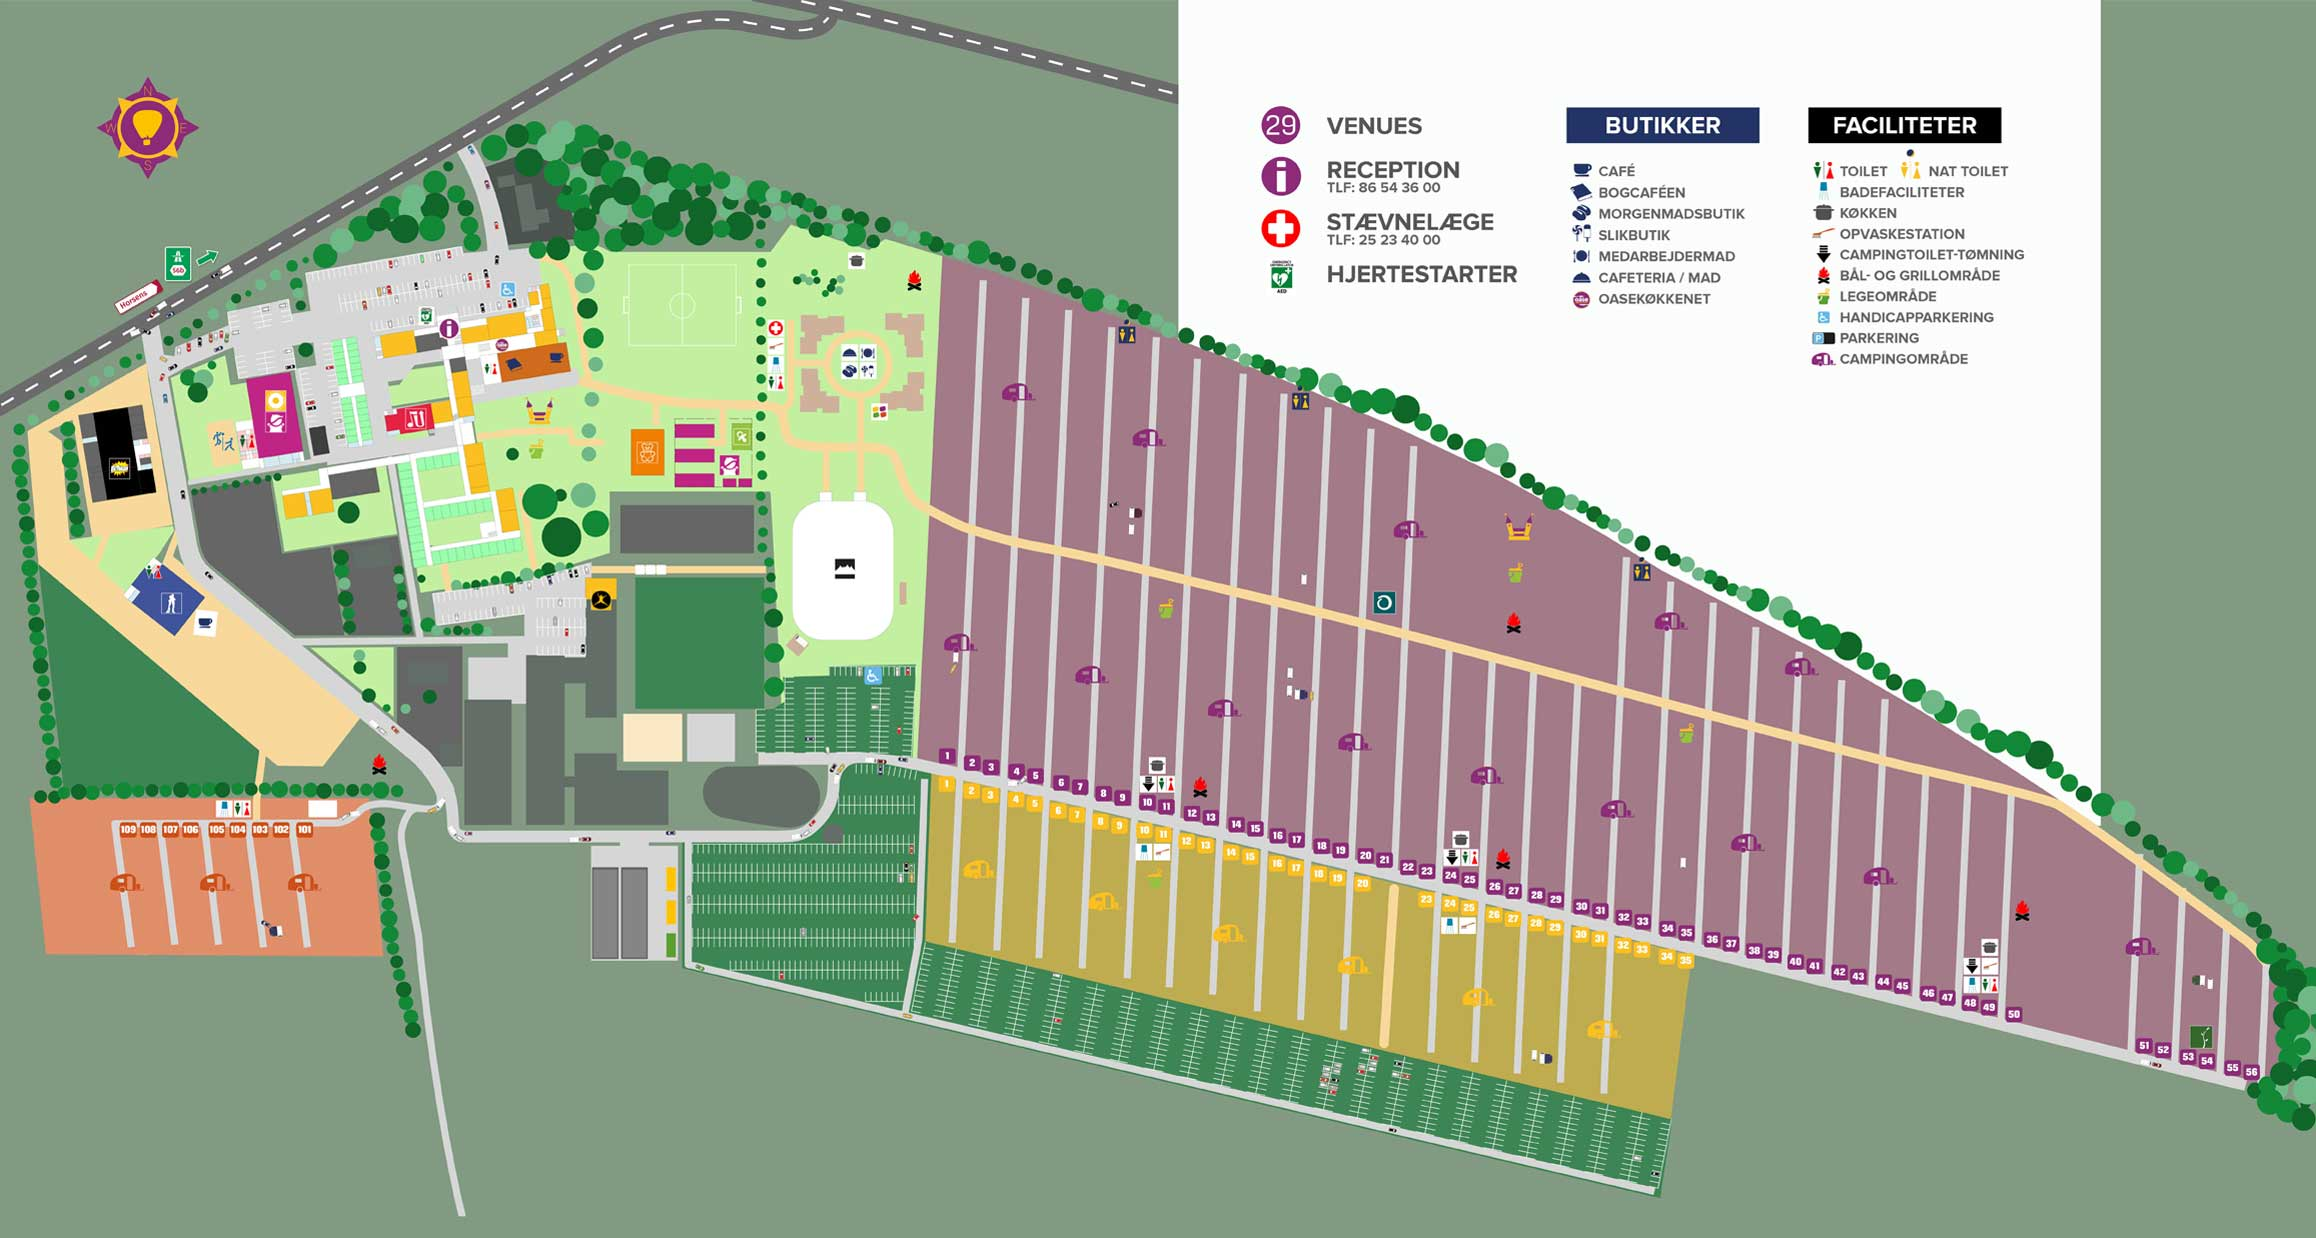
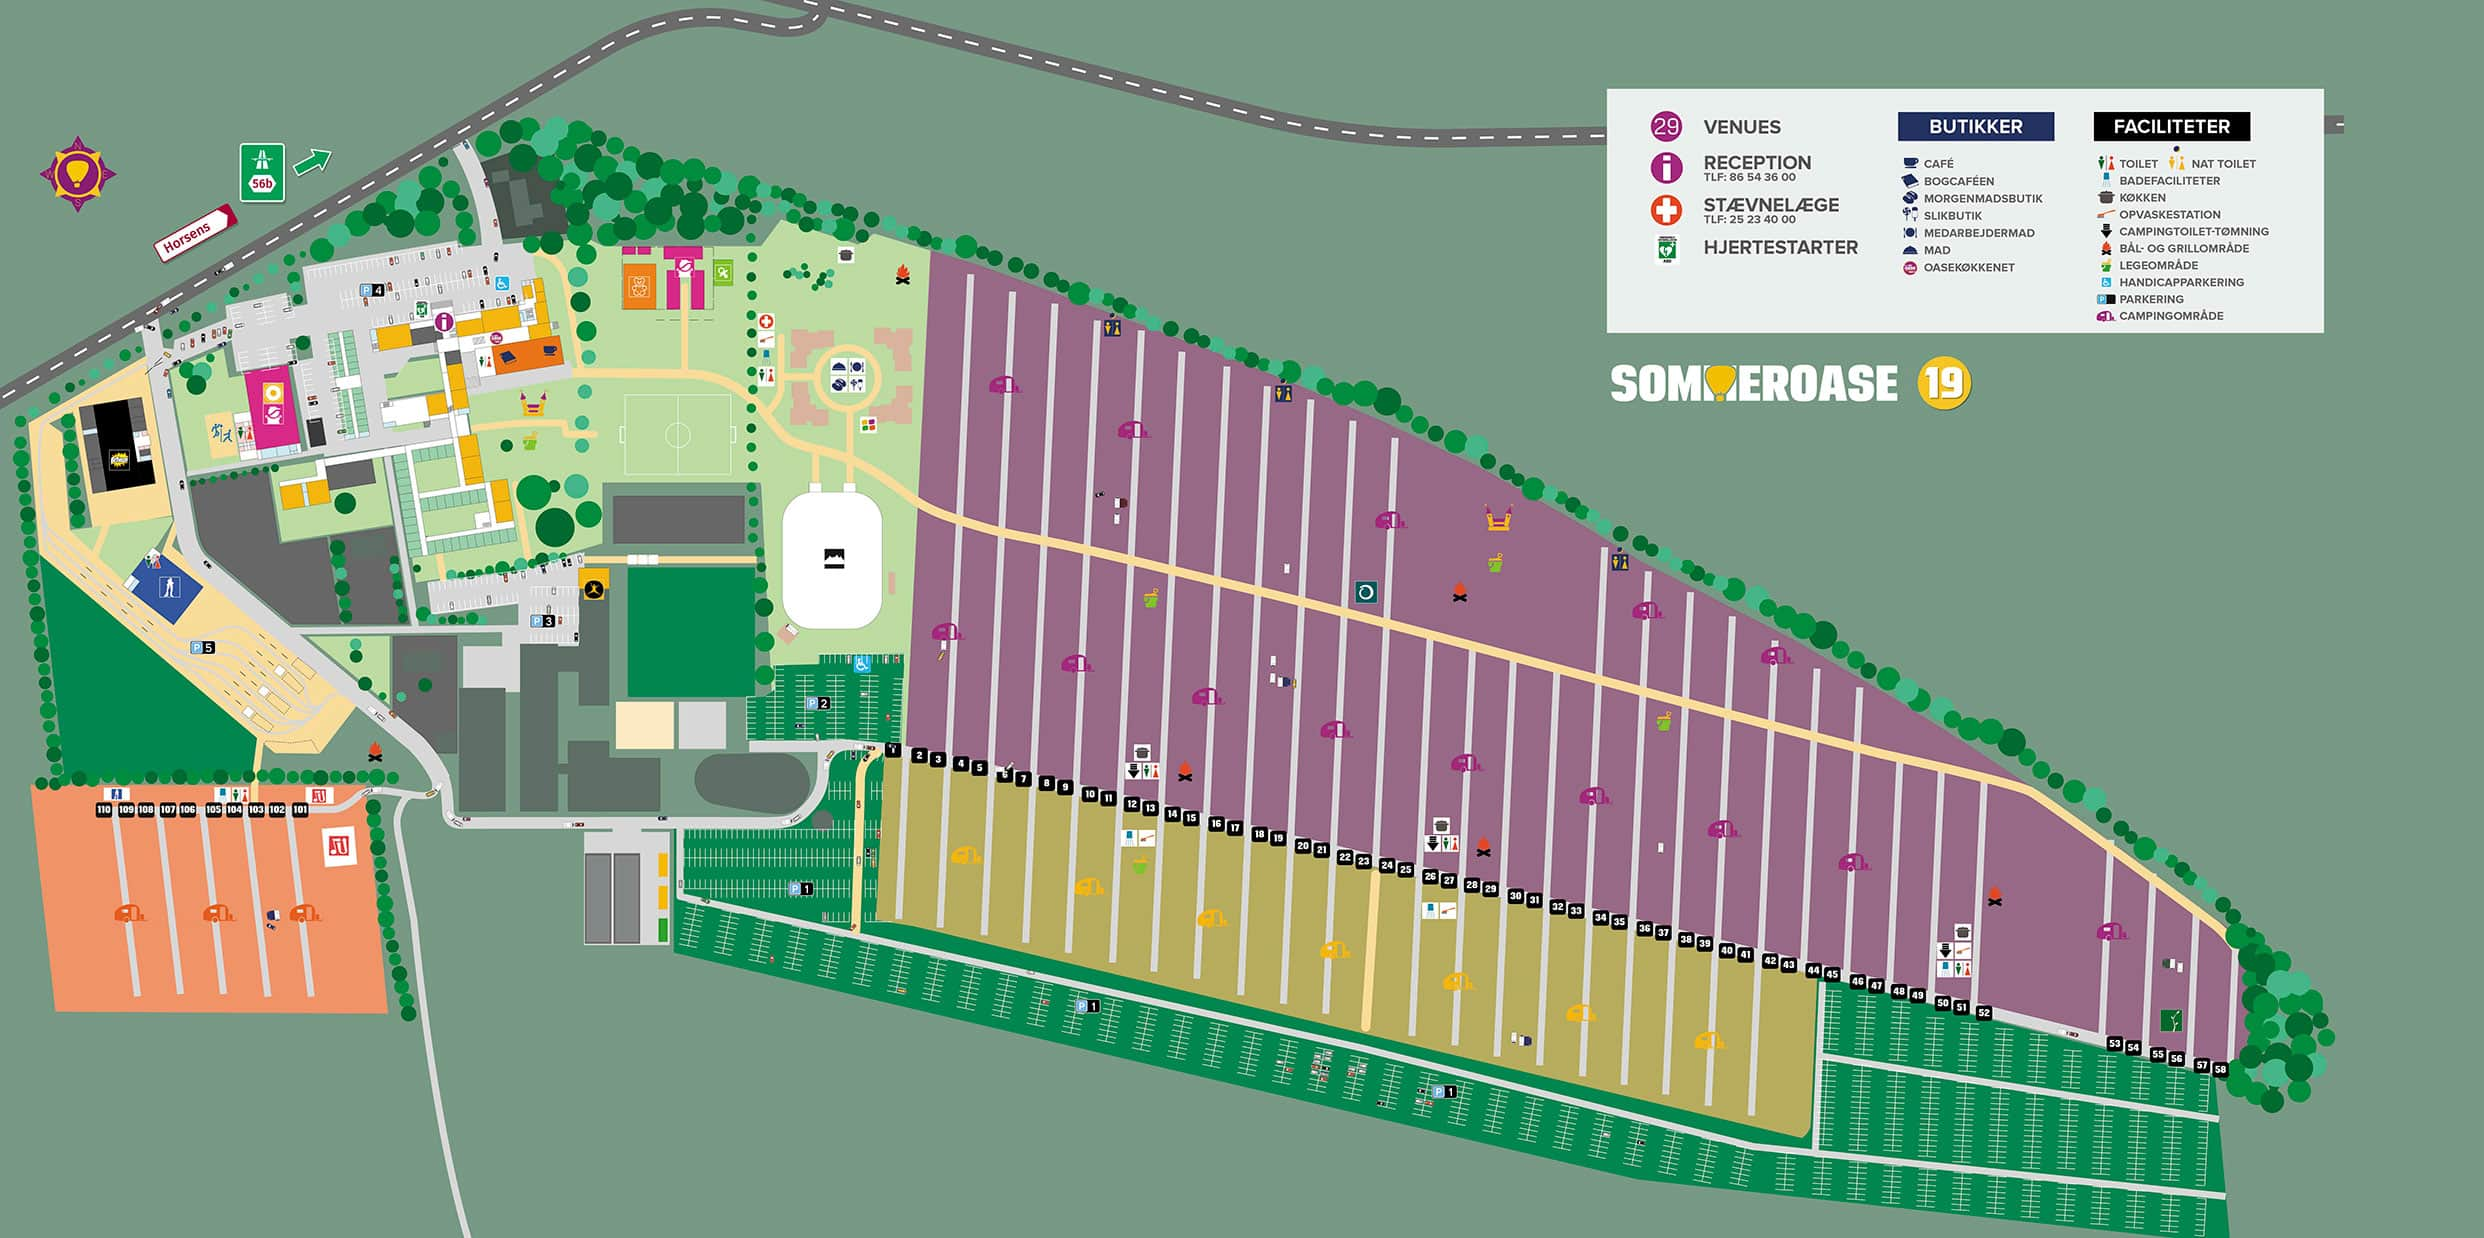
new map

diff --git a/src/app/venue/position.service.ts b/src/app/venue/position.service.ts
@@ -1,9 +1,8 @@
 export class PositionService {
   mapBounds = {
-    latitude: [55.862230, 55.857134],
-    longitude: [9.785015, 9.802005]
+    latitude: [55.862230, 55.857048],
+    longitude: [9.785015, 9.803598]
   };
-
 
   calculatePctFromLatLng(lat, lng) {
     const top = 100 * ((lat - this.mapBounds.latitude[0]) / (this.mapBounds.latitude[1] - this.mapBounds.latitude[0]));

diff --git a/src/app/venue/map.component.ts b/src/app/venue/map.component.ts
@@ -53,7 +53,7 @@ export class MapComponent implements OnInit, OnDestroy {
   watchId: number;
 
   mapSize = {
-    width: 1158,
+    width: 1242,
     height: 619
   };
 
